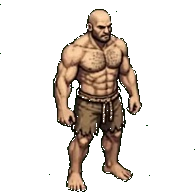
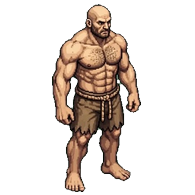
BUILD 394: new bare down idle/walk art from user-supplied front-facing sheet — down frames now face the viewer (walk_1 mirrors walk_0 for the 2-frame cycle); side frames unchanged; manifest down note; sim 43,431 passed

Changed region(s): [[0.2462, 0.0, 0.7385, 0.9846]]

diff --git a/index.html b/index.html
@@ -1,1 +1,1 @@
-<!doctype html><html lang="en"><head><!-- BUILD309-VIEWPORT-FIX-MARKER --><meta charset="UTF-8"><meta name="viewport" content="width=device-width, initial-scale=1.0, maximum-scale=1.0, user-scalable=no"><meta name="theme-color" content="#17362e"><link rel="icon" type="image/svg+xml" href="favicon.svg"><meta name="description" content="Explore Mosslight Crossing in the Adventure Game field journal."><title>Adventure Game — Mosslight Crossing</title></head><body><div id="root"></div><script>window.__AG_BUILD="393";(function(){var shown=false;function code(m){var h=0,s=window.__AG_BUILD+"|"+m;for(var i=0;i<s.length;i++){h=(Math.imul(h,31)+s.charCodeAt(i))|0;}return "AG"+window.__AG_BUILD+"-"+(h>>>0).toString(36).toUpperCase().padStart(6,"0").slice(-5);}function show(m,k){if(shown||window.__agBooted)return;shown=true;var d=document.createElement("div");d.id="ag-boot-crash";var p=document.createElement("div");p.className="ag-boot-panel";var t=document.createElement("div");t.className="ag-boot-title";t.textContent="\u26a0 GAME FAILED TO START";var c=document.createElement("div");c.className="ag-boot-code";c.textContent=code(String(m));var g=document.createElement("div");g.className="ag-boot-msg";g.textContent=String(m).slice(0,300);var n=document.createElement("div");n.className="ag-boot-kind";n.textContent=k;var b=document.createElement("button");b.textContent="Reload game";b.onclick=function(){location.reload();};p.appendChild(t);p.appendChild(c);p.appendChild(g);p.appendChild(n);p.appendChild(b);d.appendChild(p);document.body.appendChild(d);}window.addEventListener("error",function(e){if(e.target&&e.target!==window)return;show(e.message||"script error","boot error");},true);window.addEventListener("unhandledrejection",function(e){var r=e.reason;show((r&&(r.message||r))||"rejection","boot rejection");});setTimeout(function(){if(!window.__agBooted)show("The game did not finish loading in time.","load timeout");},20000);})();</script><style>#ag-boot-crash{position:fixed;inset:0;z-index:99999;background:#0d1a16;display:flex;align-items:center;justify-content:center;padding:24px}#ag-boot-crash .ag-boot-panel{max-width:420px;width:100%;background:#14261f;border:1px solid #2c4a3e;border-radius:12px;padding:24px;text-align:center;color:#e8f0e9;font-family:system-ui,sans-serif}#ag-boot-crash .ag-boot-title{font-size:20px;font-weight:800;letter-spacing:.5px}#ag-boot-crash .ag-boot-code{font-family:monospace;font-size:22px;color:#ffd75e;margin:12px 0;letter-spacing:1px}#ag-boot-crash .ag-boot-msg{font-size:13px;color:#b9c9bd;word-break:break-word}#ag-boot-crash .ag-boot-kind{font-size:11px;color:#7d8f83;margin-top:8px;text-transform:uppercase;letter-spacing:1px}#ag-boot-crash button{margin-top:16px;background:#e8a33d;border:0;border-radius:8px;padding:10px 22px;font-size:15px;font-weight:700;color:#231603;cursor:pointer}</style><script type="module" src="/src/main.tsx"></script></body></html>
+<!doctype html><html lang="en"><head><!-- BUILD309-VIEWPORT-FIX-MARKER --><meta charset="UTF-8"><meta name="viewport" content="width=device-width, initial-scale=1.0, maximum-scale=1.0, user-scalable=no"><meta name="theme-color" content="#17362e"><link rel="icon" type="image/svg+xml" href="favicon.svg"><meta name="description" content="Explore Mosslight Crossing in the Adventure Game field journal."><title>Adventure Game — Mosslight Crossing</title></head><body><div id="root"></div><script>window.__AG_BUILD="394";(function(){var shown=false;function code(m){var h=0,s=window.__AG_BUILD+"|"+m;for(var i=0;i<s.length;i++){h=(Math.imul(h,31)+s.charCodeAt(i))|0;}return "AG"+window.__AG_BUILD+"-"+(h>>>0).toString(36).toUpperCase().padStart(6,"0").slice(-5);}function show(m,k){if(shown||window.__agBooted)return;shown=true;var d=document.createElement("div");d.id="ag-boot-crash";var p=document.createElement("div");p.className="ag-boot-panel";var t=document.createElement("div");t.className="ag-boot-title";t.textContent="\u26a0 GAME FAILED TO START";var c=document.createElement("div");c.className="ag-boot-code";c.textContent=code(String(m));var g=document.createElement("div");g.className="ag-boot-msg";g.textContent=String(m).slice(0,300);var n=document.createElement("div");n.className="ag-boot-kind";n.textContent=k;var b=document.createElement("button");b.textContent="Reload game";b.onclick=function(){location.reload();};p.appendChild(t);p.appendChild(c);p.appendChild(g);p.appendChild(n);p.appendChild(b);d.appendChild(p);document.body.appendChild(d);}window.addEventListener("error",function(e){if(e.target&&e.target!==window)return;show(e.message||"script error","boot error");},true);window.addEventListener("unhandledrejection",function(e){var r=e.reason;show((r&&(r.message||r))||"rejection","boot rejection");});setTimeout(function(){if(!window.__agBooted)show("The game did not finish loading in time.","load timeout");},20000);})();</script><style>#ag-boot-crash{position:fixed;inset:0;z-index:99999;background:#0d1a16;display:flex;align-items:center;justify-content:center;padding:24px}#ag-boot-crash .ag-boot-panel{max-width:420px;width:100%;background:#14261f;border:1px solid #2c4a3e;border-radius:12px;padding:24px;text-align:center;color:#e8f0e9;font-family:system-ui,sans-serif}#ag-boot-crash .ag-boot-title{font-size:20px;font-weight:800;letter-spacing:.5px}#ag-boot-crash .ag-boot-code{font-family:monospace;font-size:22px;color:#ffd75e;margin:12px 0;letter-spacing:1px}#ag-boot-crash .ag-boot-msg{font-size:13px;color:#b9c9bd;word-break:break-word}#ag-boot-crash .ag-boot-kind{font-size:11px;color:#7d8f83;margin-top:8px;text-transform:uppercase;letter-spacing:1px}#ag-boot-crash button{margin-top:16px;background:#e8a33d;border:0;border-radius:8px;padding:10px 22px;font-size:15px;font-weight:700;color:#231603;cursor:pointer}</style><script type="module" src="/src/main.tsx"></script></body></html>
